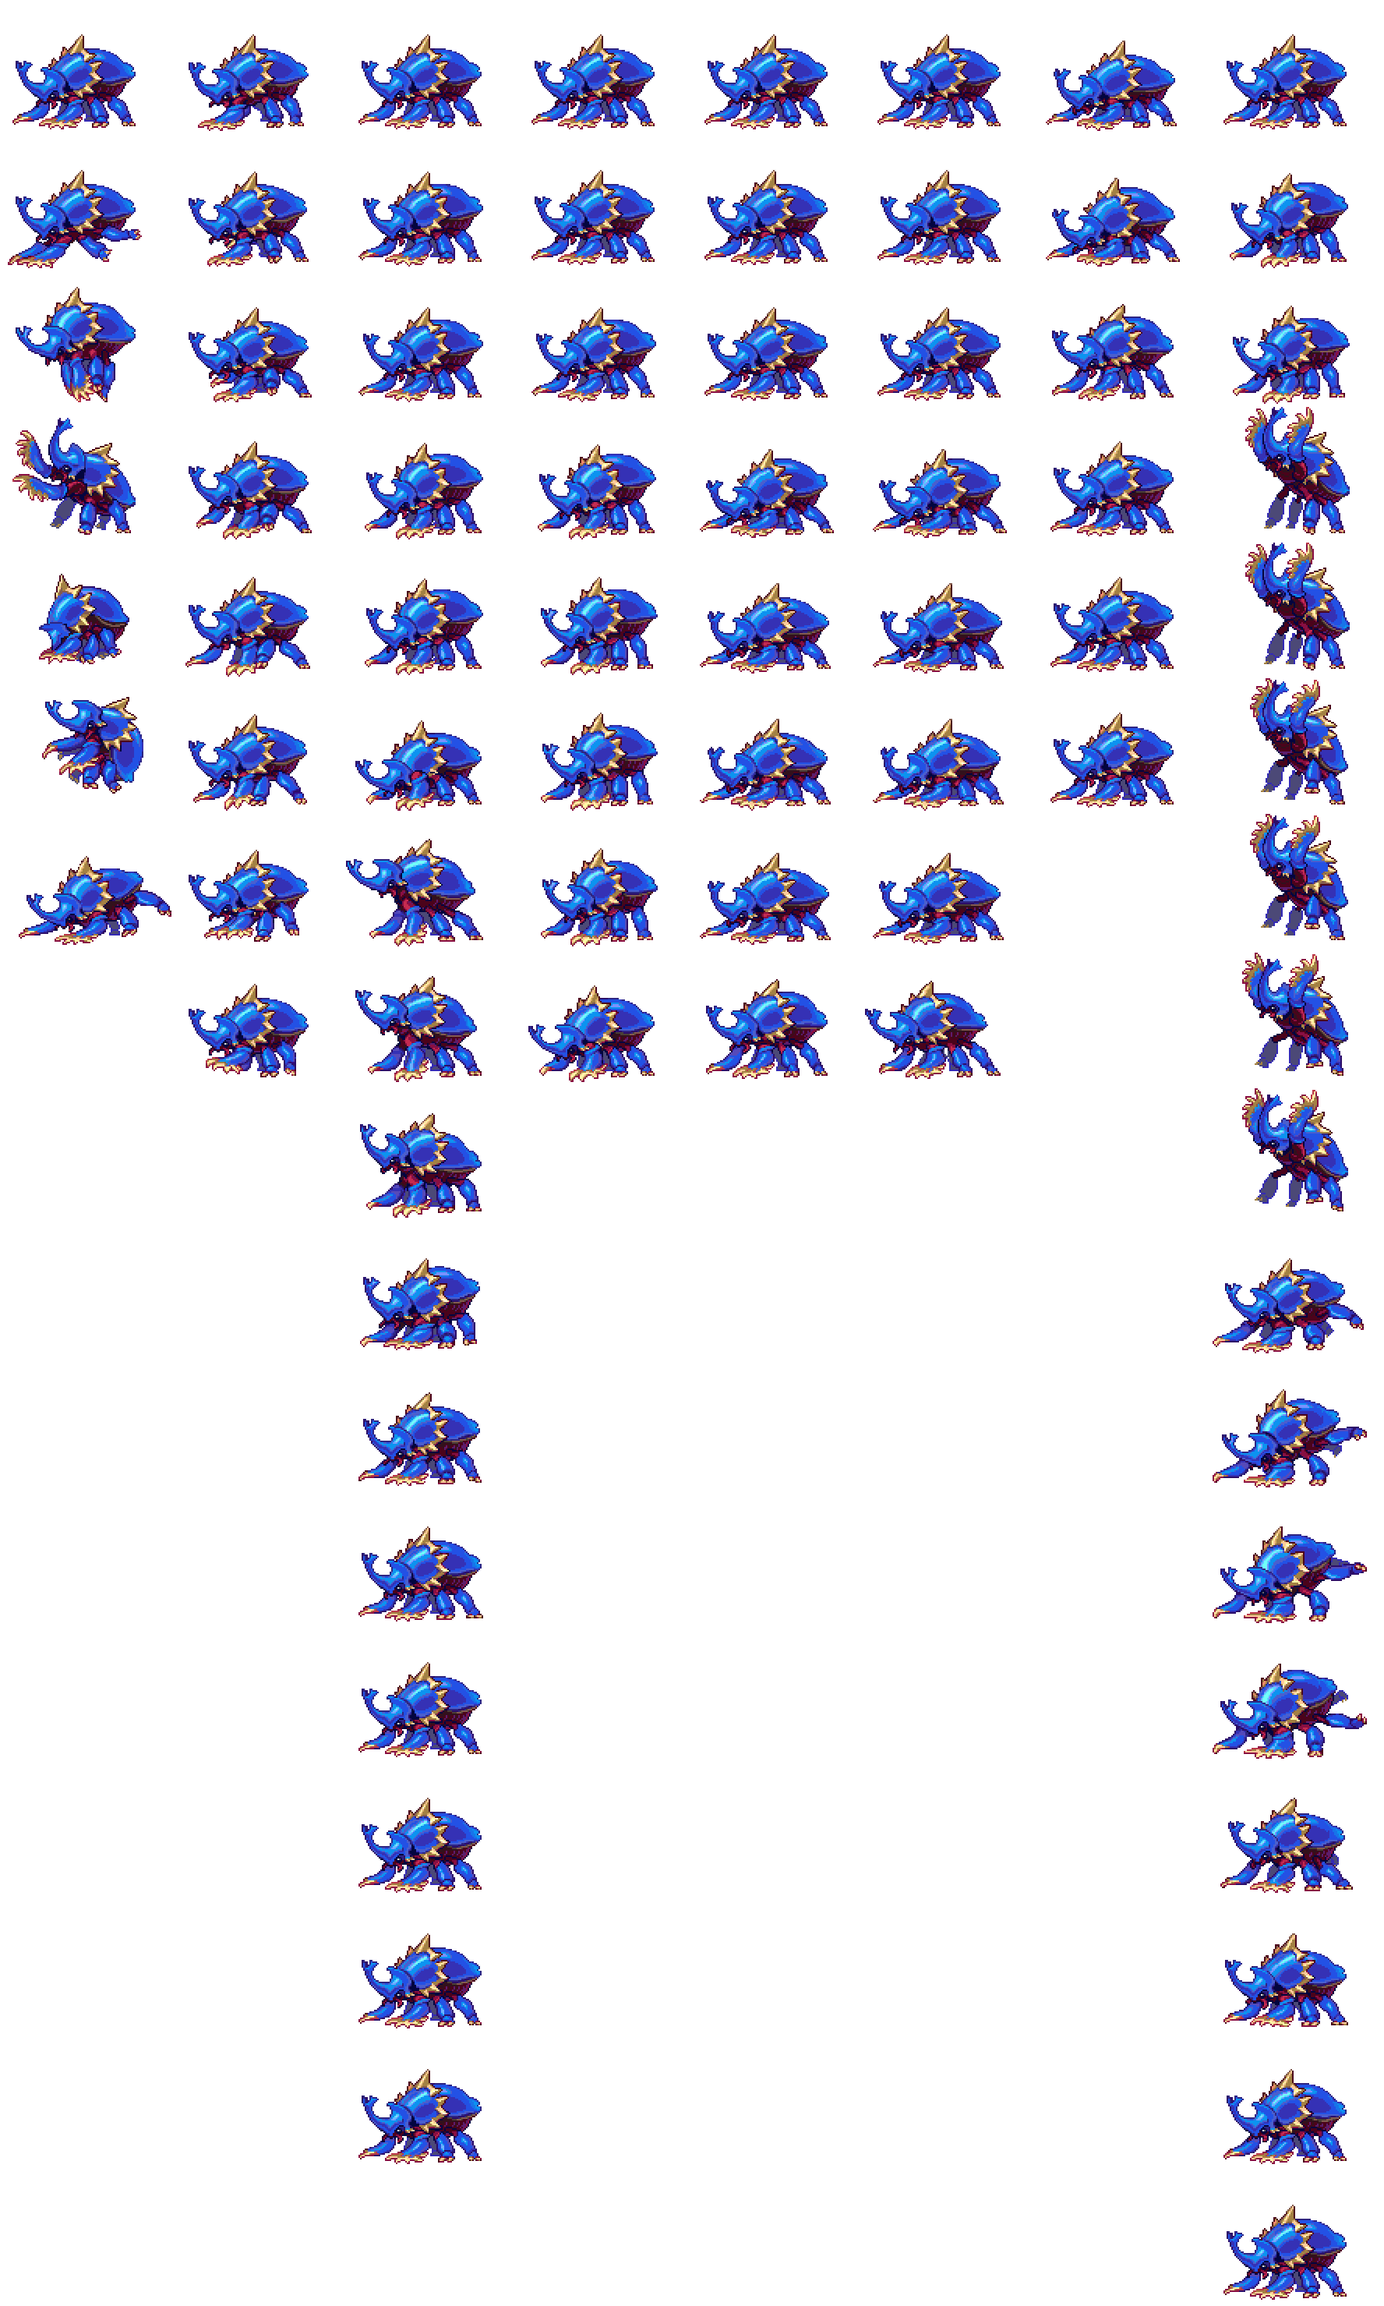
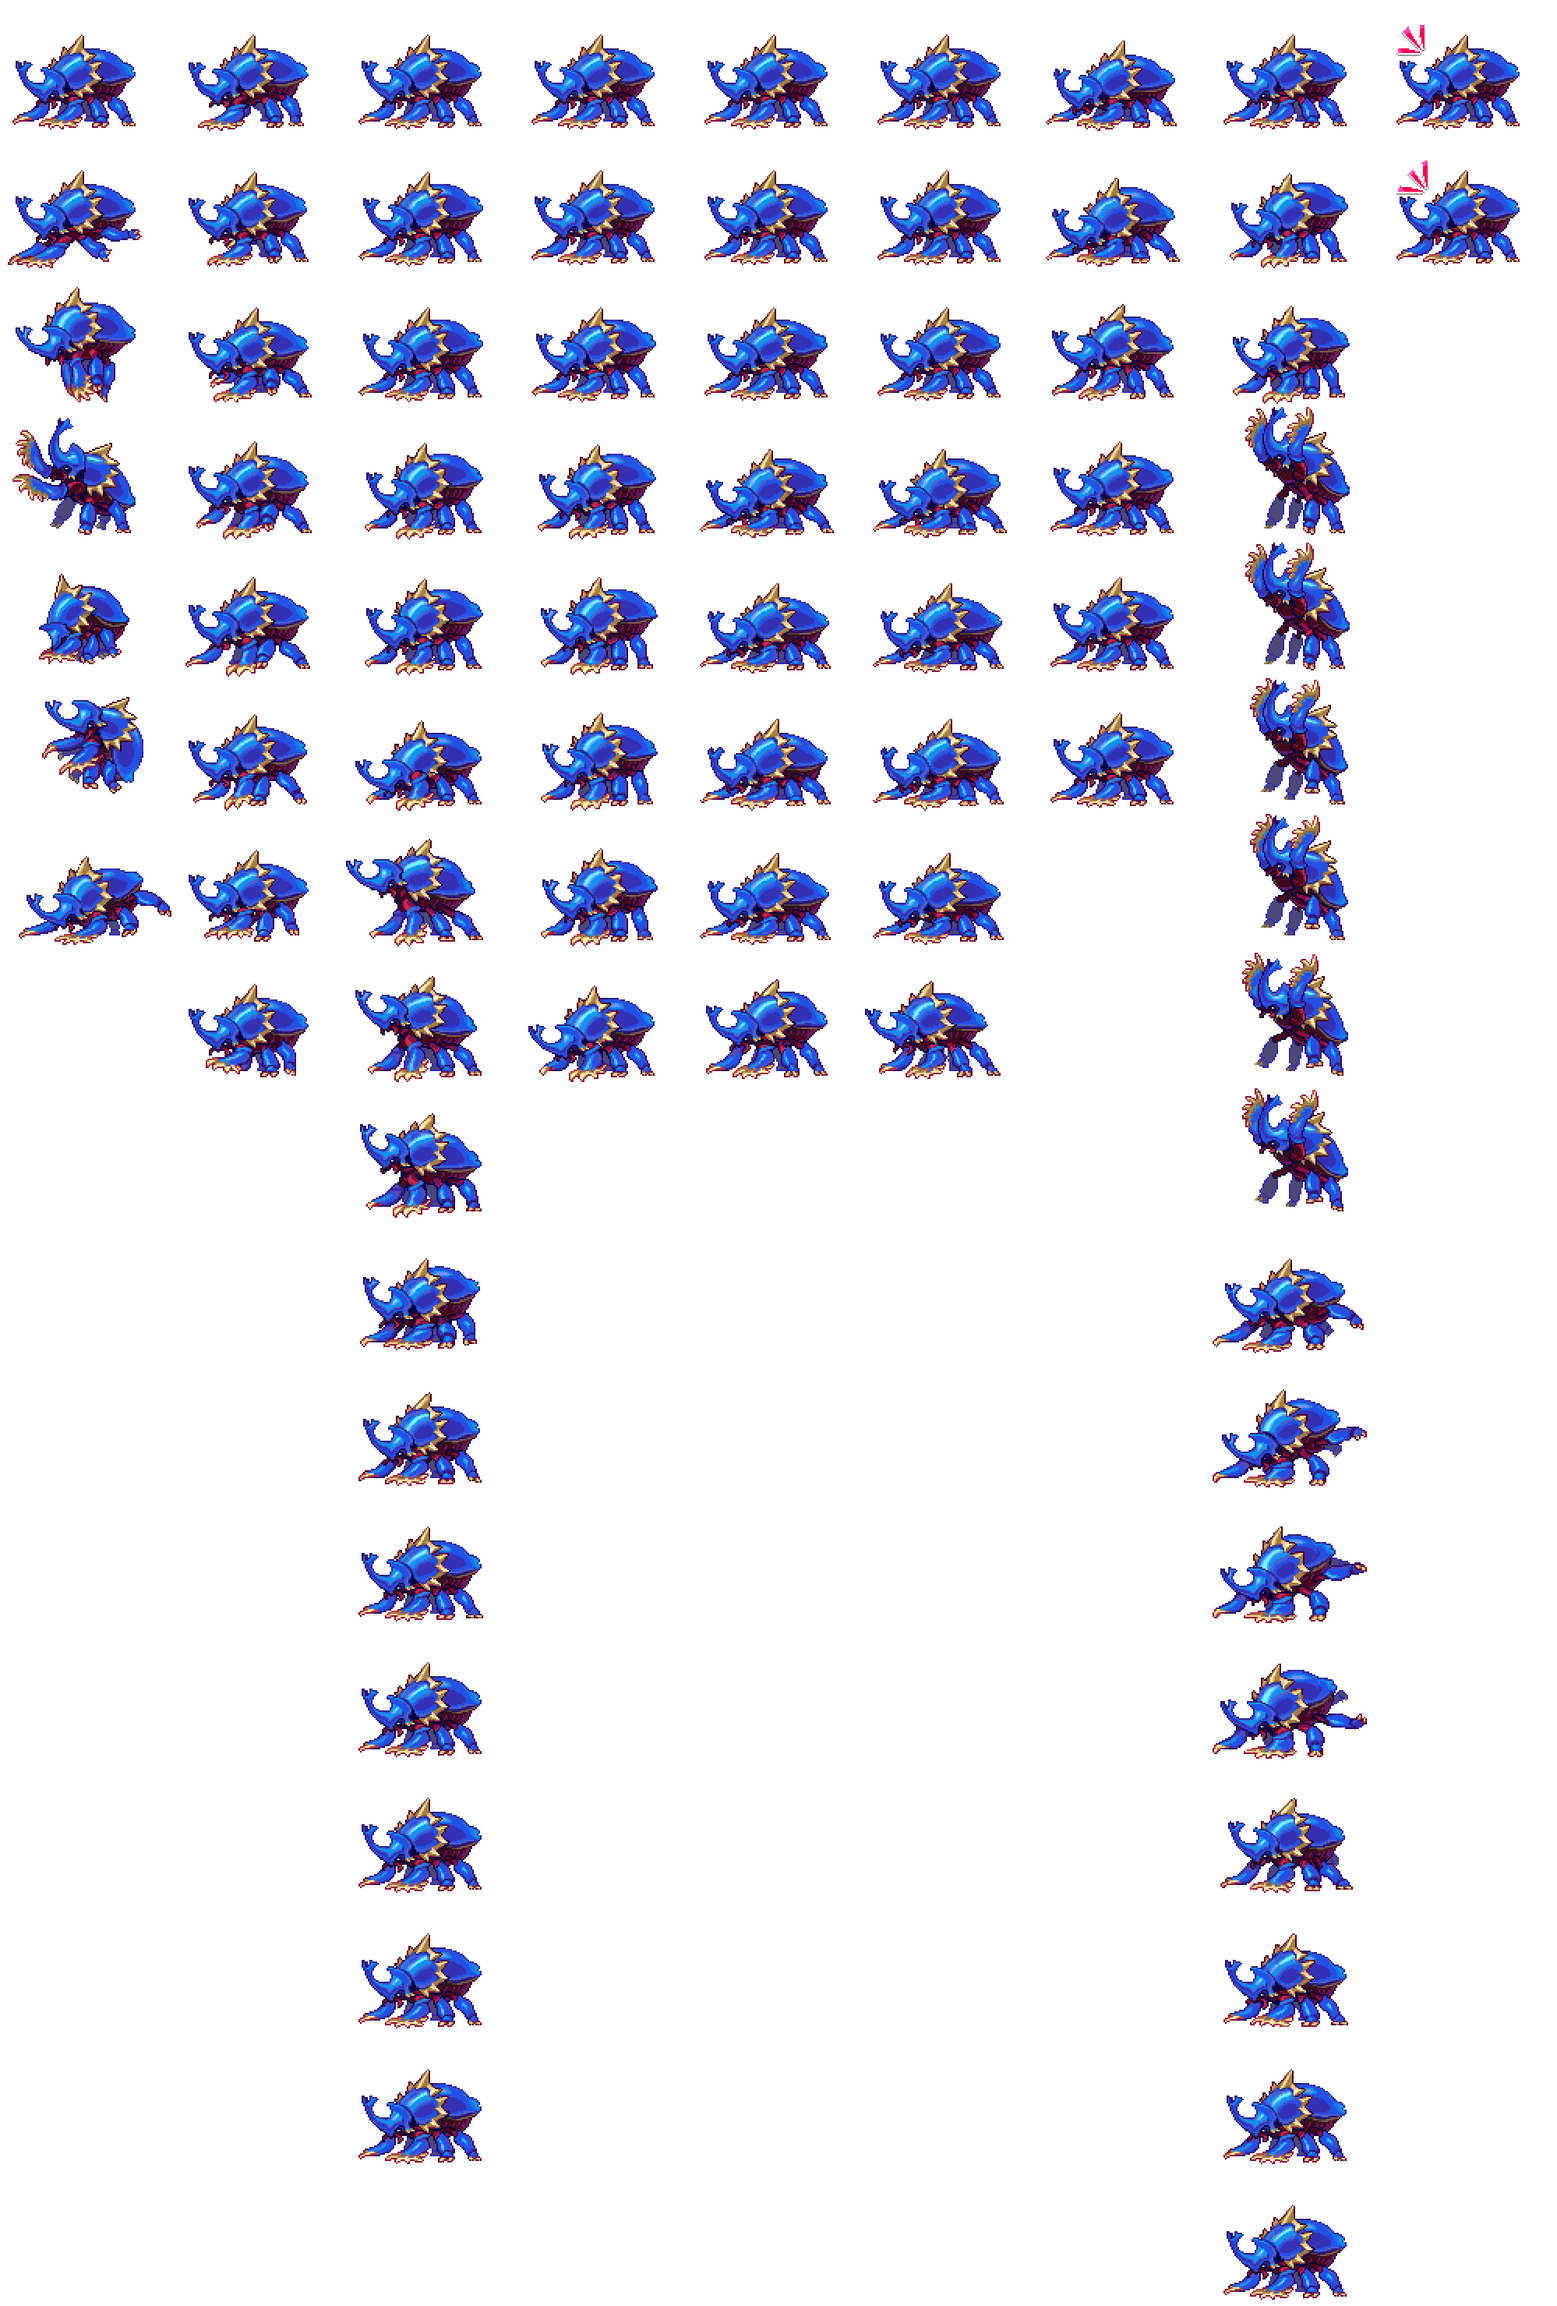
Bonus frames

Changed region(s): [[0.0, 0.0, 0.991, 1.0]]

diff --git a/Content/Desert/ScarabBoss/Boss/Scarabeus.States.cs b/Content/Desert/ScarabBoss/Boss/Scarabeus.States.cs
@@ -3,6 +3,7 @@ using SpiritReforged.Common.MathHelpers;
 using SpiritReforged.Common.Misc;
 using SpiritReforged.Common.NPCCommon;
 using SpiritReforged.Common.Particle;
+using SpiritReforged.Content.Desert.ScarabBoss.Items;
 using SpiritReforged.Content.Particles;
 using Terraria.Graphics.CameraModifiers;
 
@@ -26,7 +27,16 @@ public partial class Scarabeus : ModNPC
 		if (Counter > swarm_time + roar_time) //End the cinematic
 		{
 			NPC.dontTakeDamage = false;
-			ChangeState(Walking);
+
+			if (NPC.life == NPC.lifeMax && Target.head == EquipLoader.GetEquipSlot(Mod, nameof(ScarabMask), EquipType.Head))
+			{
+				NPC.FaceTarget();
+				UpdateFrame(8, 2, PhaseOneProfile); //Bonus animation while wearing Scarabeus' mask
+			}
+			else
+			{
+				ChangeState(Walking);
+			}
 		}
 		else if (Counter > swarm_time) //Emerge
 		{

diff --git a/Content/Desert/ScarabBoss/Boss/Scarabeus.cs b/Content/Desert/ScarabBoss/Boss/Scarabeus.cs
@@ -64,7 +64,7 @@ public partial class Scarabeus : ModNPC
 			PortraitPositionXOverride = 0f
 		});
 
-		PhaseOneProfile = new(TextureAssets.Npc[Type], DrawHelpers.RequestLocal<Scarabeus>("ScarabeusSheen", false), [7, 8, 16, 8, 8, 8, 6, 17]);
+		PhaseOneProfile = new(TextureAssets.Npc[Type], DrawHelpers.RequestLocal<Scarabeus>("ScarabeusSheen", false), [7, 8, 16, 8, 8, 8, 6, 17, 2]);
 		PhaseTwoProfile = new(DrawHelpers.RequestLocal<Scarabeus>("ScarabeusPhaseTwo", false), DrawHelpers.RequestLocal<Scarabeus>("ScarabeusSheen", false), [4, 6, 4, 5, 13]);
 	}
 

diff --git a/Content/Desert/ScarabBoss/Boss/Scarabeus.Helpers.cs b/Content/Desert/ScarabBoss/Boss/Scarabeus.Helpers.cs
@@ -3,7 +3,6 @@ using SpiritReforged.Common.MathHelpers;
 using SpiritReforged.Common.Misc;
 using SpiritReforged.Common.Particle;
 using SpiritReforged.Common.TileCommon;
-using SpiritReforged.Common.WorldGeneration;
 using Terraria.Utilities;
 
 namespace SpiritReforged.Content.Desert.ScarabBoss.Boss;
